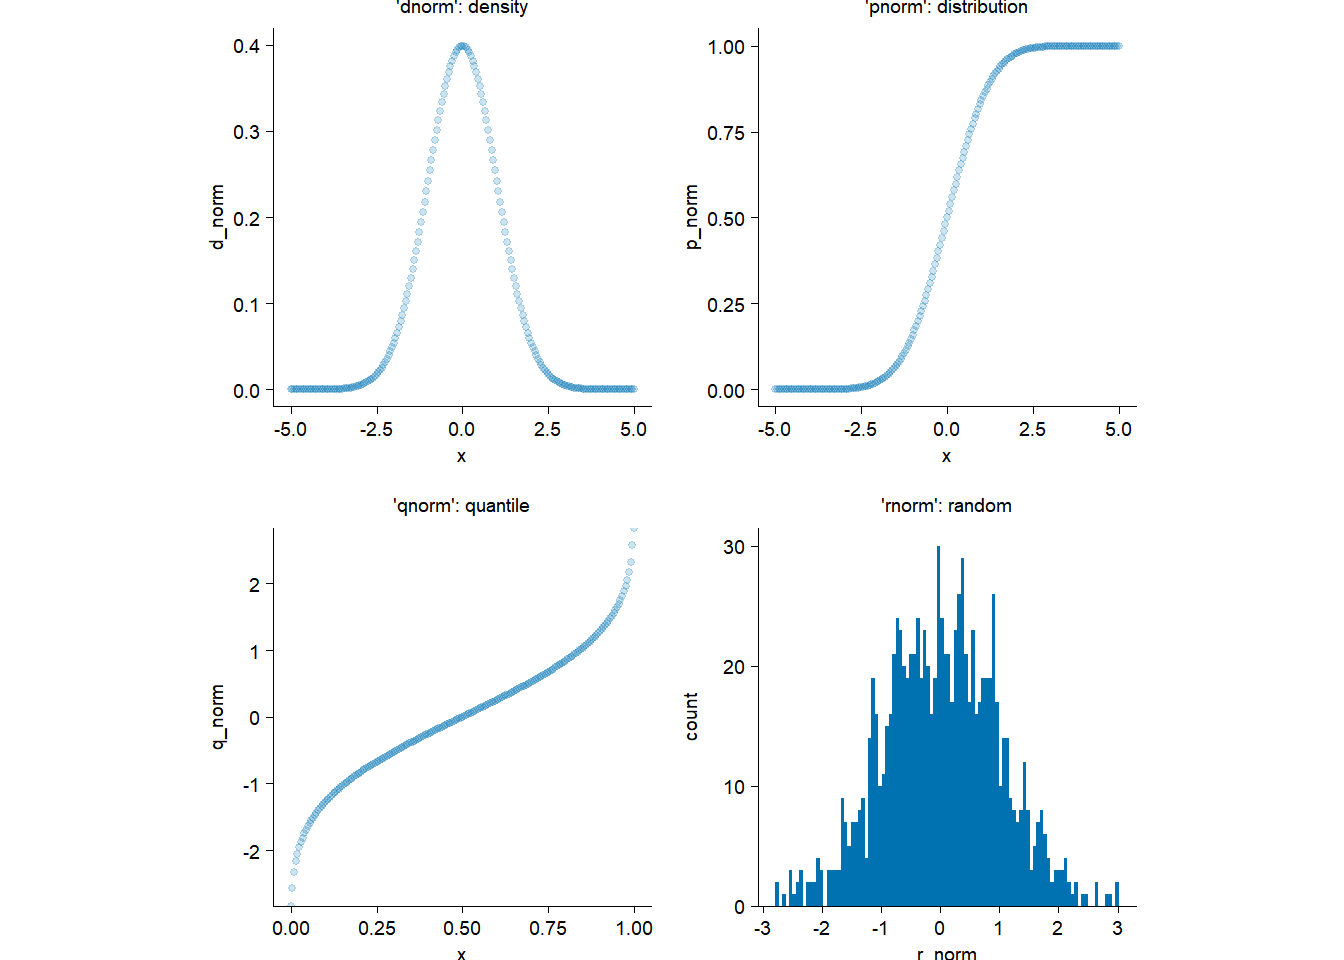
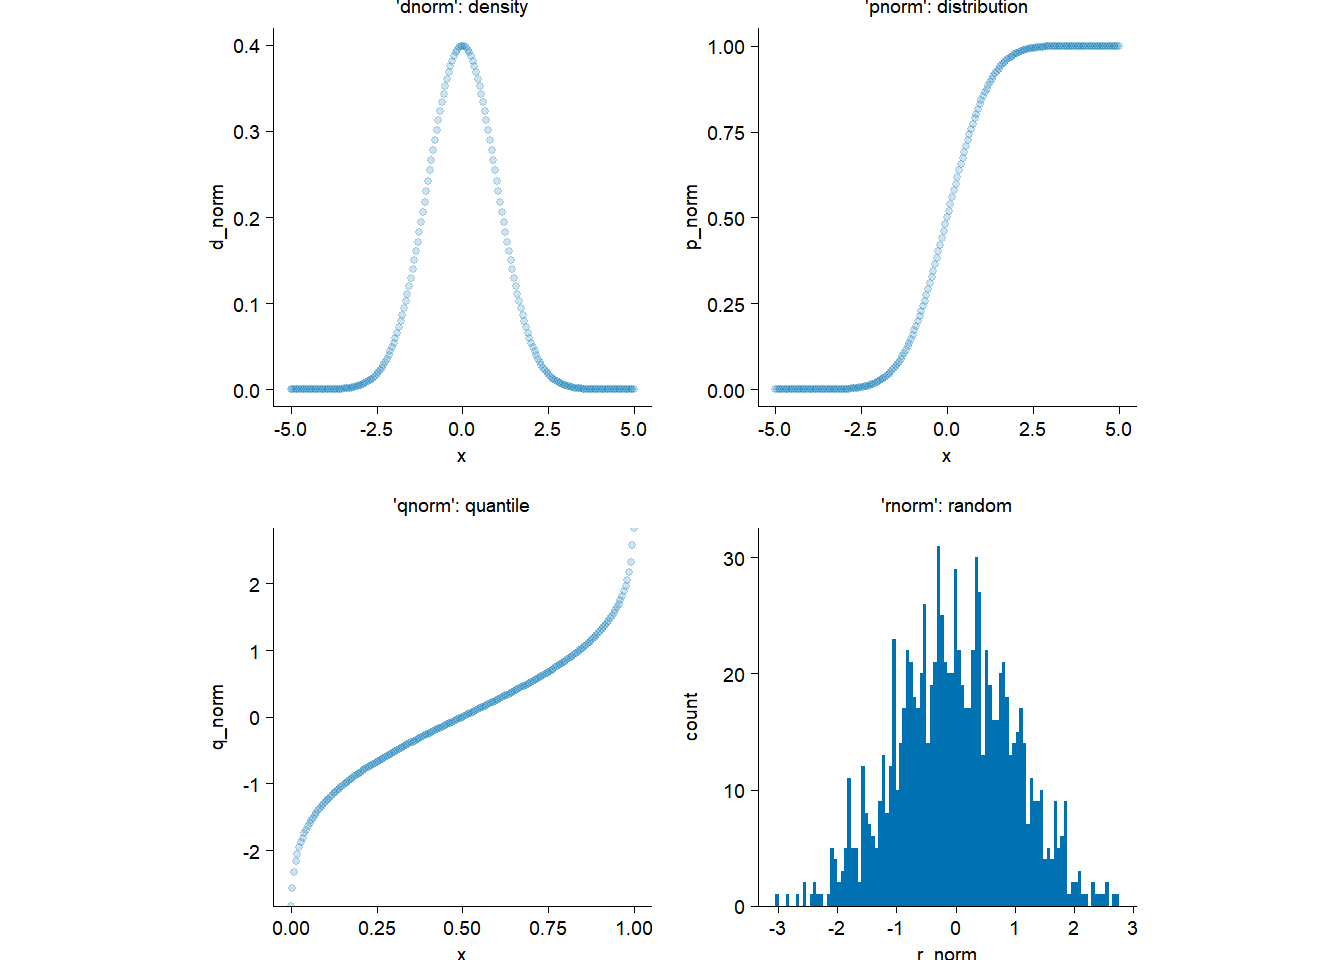
cover-image

diff --git a/_book/often_1.html b/_book/often_1.html
@@ -7,7 +7,7 @@
 <meta name="viewport" content="width=device-width, initial-scale=1.0, user-scalable=yes">
 
 
-<title>1&nbsp; Tidyplots from time to time – Tidyplots from time to time</title>
+<title>1&nbsp; One – Tidyplots from time to time</title>
 <style>
 /* Default styles provided by pandoc.
 ** See https://pandoc.org/MANUAL.html#variables-for-html for config info.
@@ -286,7 +286,7 @@ pre > code.sourceCode > span > a:first-child::before { text-decoration: underlin
       <button type="button" class="quarto-btn-toggle btn" data-bs-toggle="collapse" role="button" data-bs-target=".quarto-sidebar-collapse-item" aria-controls="quarto-sidebar" aria-expanded="false" aria-label="Toggle sidebar navigation" onclick="if (window.quartoToggleHeadroom) { window.quartoToggleHeadroom(); }">
         <i class="bi bi-layout-text-sidebar-reverse"></i>
       </button>
-        <nav class="quarto-page-breadcrumbs" aria-label="breadcrumb"><ol class="breadcrumb"><li class="breadcrumb-item"><a href="./often_1.html"><span class="chapter-number">1</span>&nbsp; <span class="chapter-title">Tidyplots from time to time</span></a></li></ol></nav>
+        <nav class="quarto-page-breadcrumbs" aria-label="breadcrumb"><ol class="breadcrumb"><li class="breadcrumb-item"><a href="./often_1.html"><span class="chapter-number">1</span>&nbsp; <span class="chapter-title">One</span></a></li></ol></nav>
         <a class="flex-grow-1" role="navigation" data-bs-toggle="collapse" data-bs-target=".quarto-sidebar-collapse-item" aria-controls="quarto-sidebar" aria-expanded="false" aria-label="Toggle sidebar navigation" onclick="if (window.quartoToggleHeadroom) { window.quartoToggleHeadroom(); }">      
         </a>
       <button type="button" class="btn quarto-search-button" aria-label="Search" onclick="window.quartoOpenSearch();">
@@ -323,7 +323,7 @@ pre > code.sourceCode > span > a:first-child::before { text-decoration: underlin
         <li class="sidebar-item">
   <div class="sidebar-item-container"> 
   <a href="./often_1.html" class="sidebar-item-text sidebar-link active">
- <span class="menu-text"><span class="chapter-number">1</span>&nbsp; <span class="chapter-title">Tidyplots from time to time</span></span></a>
+ <span class="menu-text"><span class="chapter-number">1</span>&nbsp; <span class="chapter-title">One</span></span></a>
   </div>
 </li>
     </ul>
@@ -361,7 +361,7 @@ pre > code.sourceCode > span > a:first-child::before { text-decoration: underlin
 
 <header id="title-block-header" class="quarto-title-block default">
 <div class="quarto-title">
-<h1 class="title"><span class="chapter-number">1</span>&nbsp; <span class="chapter-title">Tidyplots from time to time</span></h1>
+<h1 class="title"><span class="chapter-number">1</span>&nbsp; <span class="chapter-title">One</span></h1>
 </div>
 
 
@@ -500,7 +500,7 @@ pre > code.sourceCode > span > a:first-child::before { text-decoration: underlin
     }
     plot
 }
-&lt;bytecode: 0x0000028f22945468&gt;
+&lt;bytecode: 0x0000020baf9c1d58&gt;
 &lt;environment: namespace:tidyplots&gt;</code></pre>
 </div>
 <div class="code-copy-outer-scaffold"><div class="sourceCode cell-code" id="cb18"><pre class="sourceCode r code-with-copy"><code class="sourceCode r"><span id="cb18-1"><a href="#cb18-1" aria-hidden="true" tabindex="-1"></a>ggplot2<span class="sc">::</span>faithfuld <span class="sc">|&gt;</span> </span>
@@ -1197,7 +1197,8 @@ Adding another scale for x, which will replace the existing scale.</code></pre>
 </div>
 </div>
 </div>
-<p>Sleeping at 23:30 does not mean finishing homework at that time. It simply means that the student might be used to going to bed at that time.</p>
+<p>Sleeping at 23:30 does not mean finishing homework at that time. It simply means that the student (grade 9) might be used to going to bed at that time.</p>
+<p>Date: 2026-11-22</p>
 
 
 </section>

diff --git a/_book/index.html b/_book/index.html
@@ -308,7 +308,7 @@ div.csl-indent {
         <li class="sidebar-item">
   <div class="sidebar-item-container"> 
   <a href="./often_1.html" class="sidebar-item-text sidebar-link">
- <span class="menu-text"><span class="chapter-number">1</span>&nbsp; <span class="chapter-title">Tidyplots from time to time</span></span></a>
+ <span class="menu-text"><span class="chapter-number">1</span>&nbsp; <span class="chapter-title">One</span></span></a>
   </div>
 </li>
     </ul>
@@ -361,7 +361,7 @@ div.csl-indent {
 <p>I code to see what I can code <span class="citation" data-cites="derek">(<a href="#ref-derek" role="doc-biblioref">Sivers 2026</a>)</span>.</p>
 <p>And perhaps you read what I wrote and coded.</p>
 <p>And perhaps you benefit from what I wrote and coded.</p>
-<p>PS. the cover image is from <a href="https://bsky.app/profile/alisonfisk.bsky.social/post/3n2tqffcnlc2y" class="uri">https://bsky.app/profile/alisonfisk.bsky.social/post/3n2tqffcnlc2y</a>.</p>
+<p><em>PS. the cover image is from <a href="https://bsky.app/profile/alisonfisk.bsky.social/post/3n2tqffcnlc2y">here</a>.</em></p>
 
 
 <div id="refs" class="references csl-bib-body hanging-indent" role="list">
@@ -789,8 +789,8 @@ Sivers, Derek. 2026. July. <a href="https://bsky.app/profile/sive.rs/post/3mrnb3
   <div class="nav-page nav-page-previous">
   </div>
   <div class="nav-page nav-page-next">
-      <a href="./often_1.html" class="pagination-link" aria-label="Tidyplots from time to time">
-        <span class="nav-page-text"><span class="chapter-number">1</span>&nbsp; <span class="chapter-title">Tidyplots from time to time</span></span> <i class="bi bi-arrow-right-short"></i>
+      <a href="./often_1.html" class="pagination-link" aria-label="One">
+        <span class="nav-page-text"><span class="chapter-number">1</span>&nbsp; <span class="chapter-title">One</span></span> <i class="bi bi-arrow-right-short"></i>
       </a>
   </div>
 </nav>
